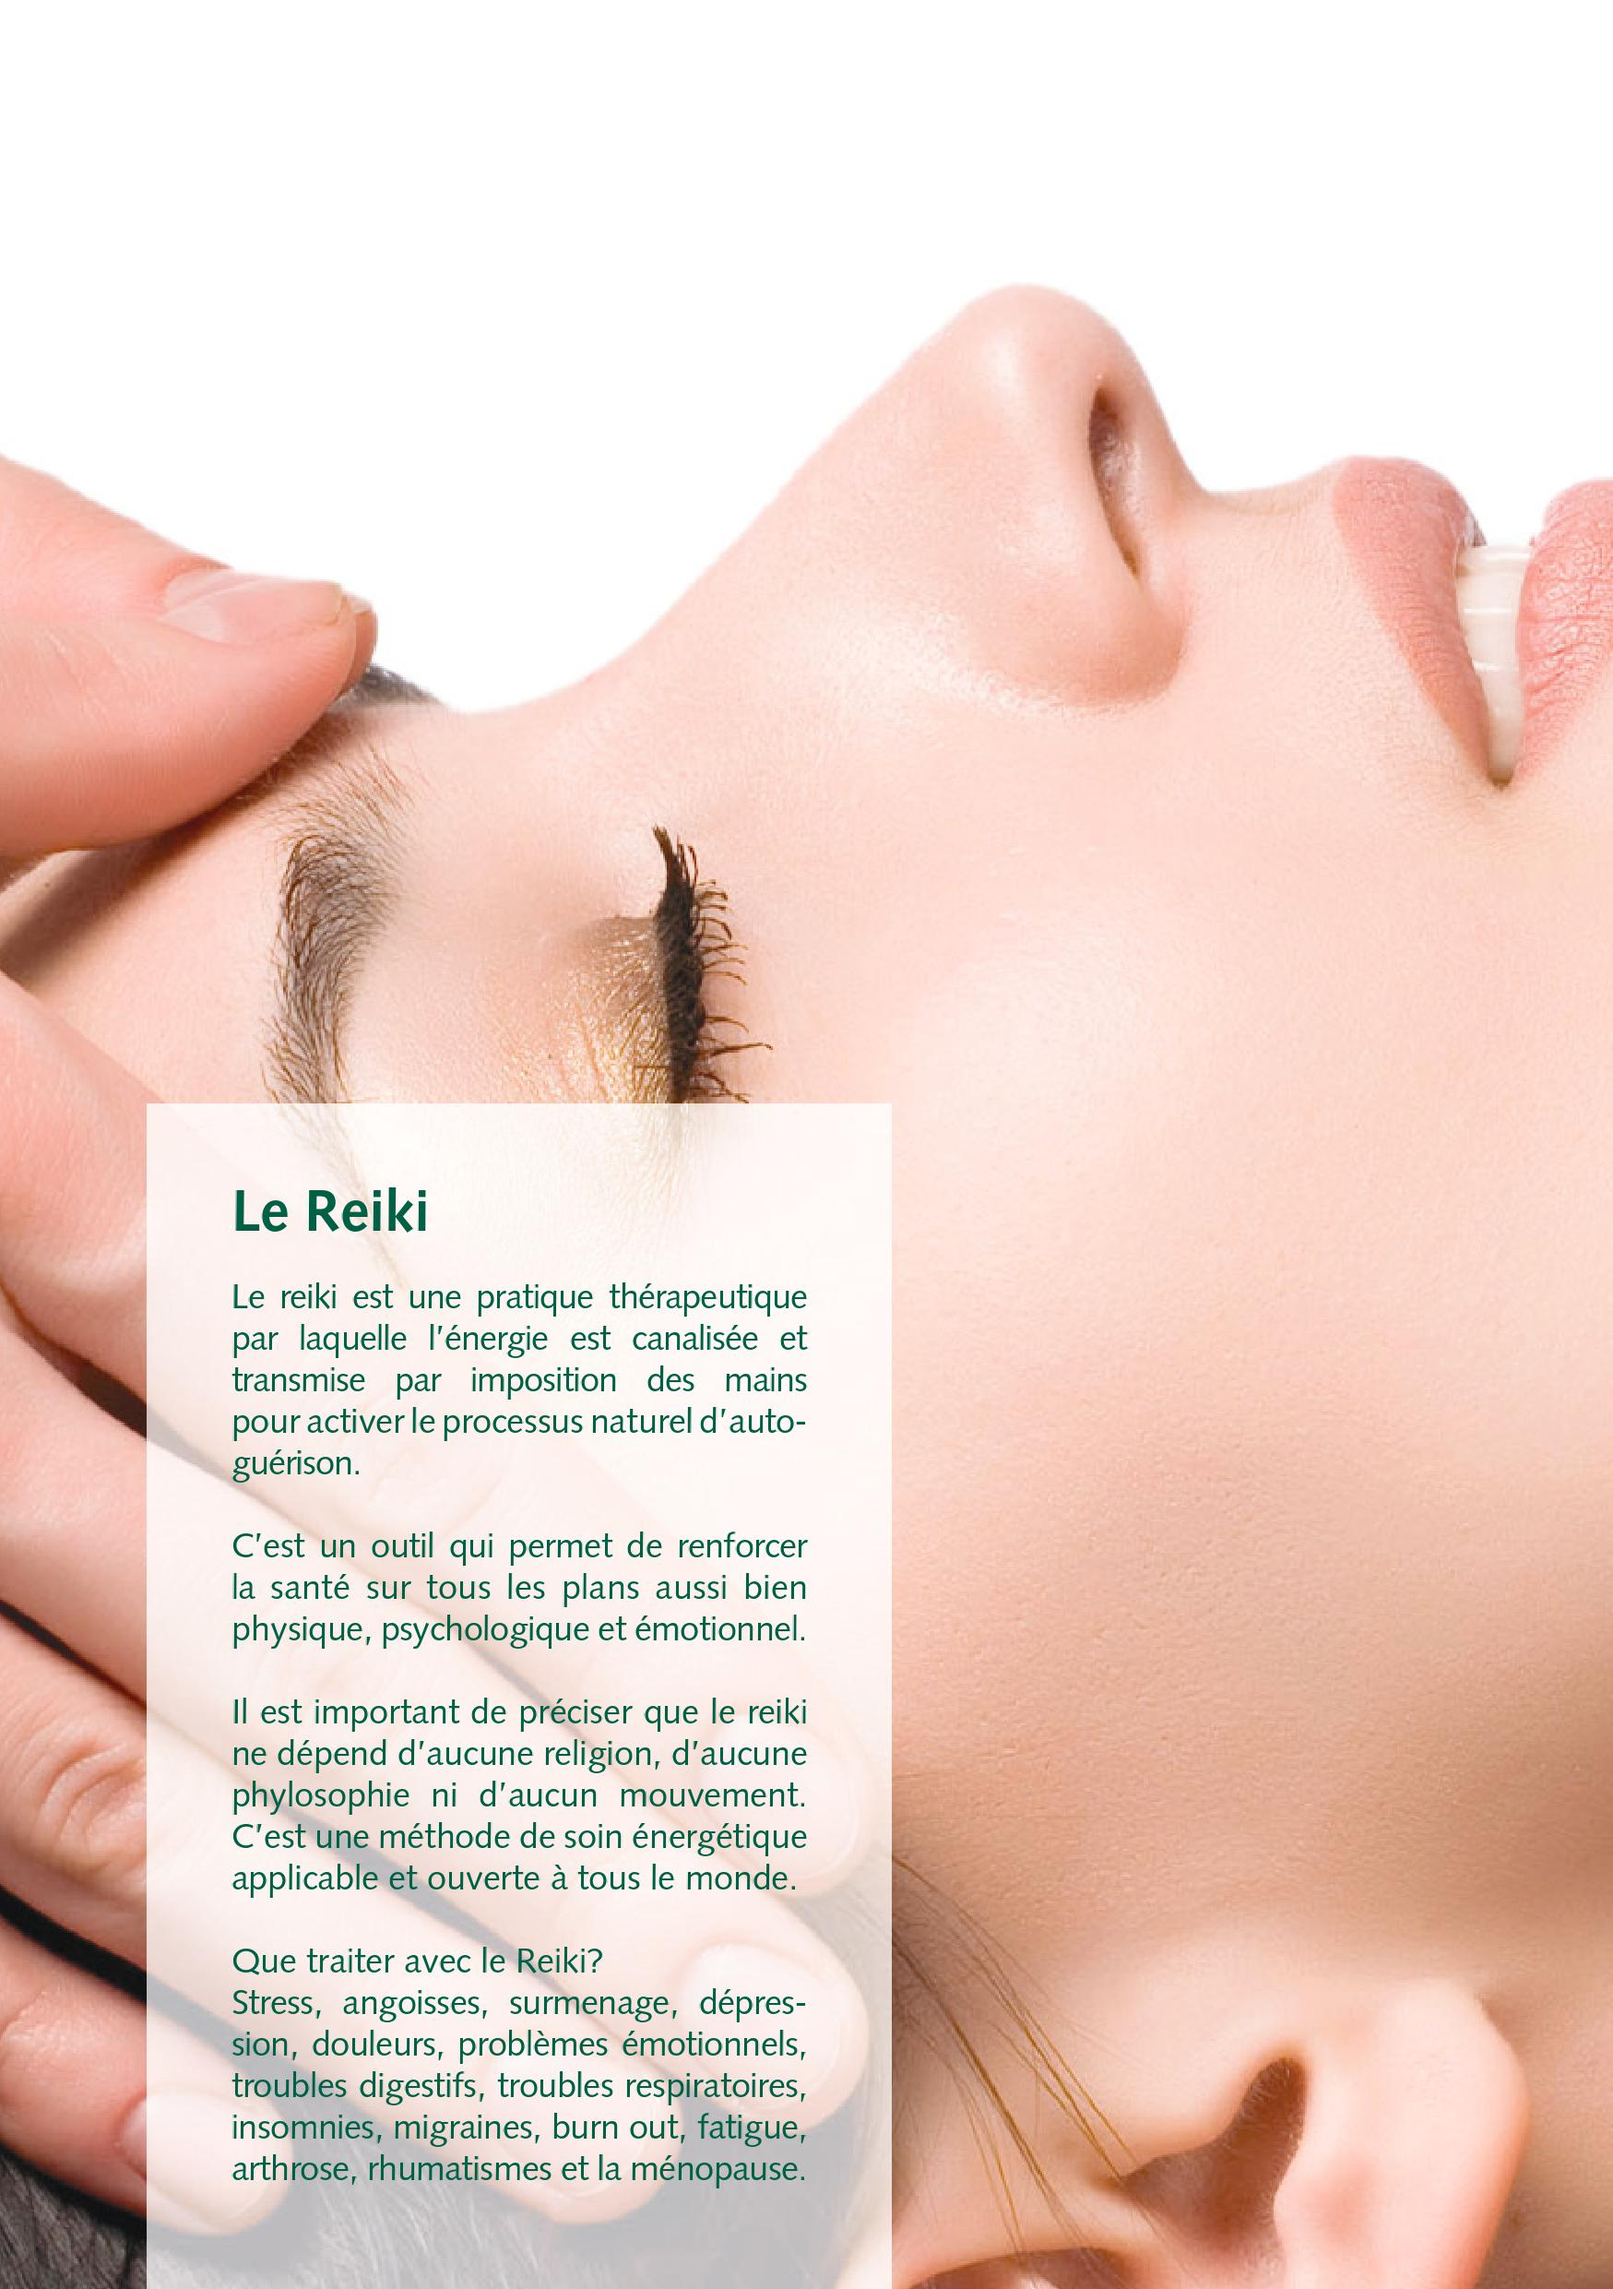
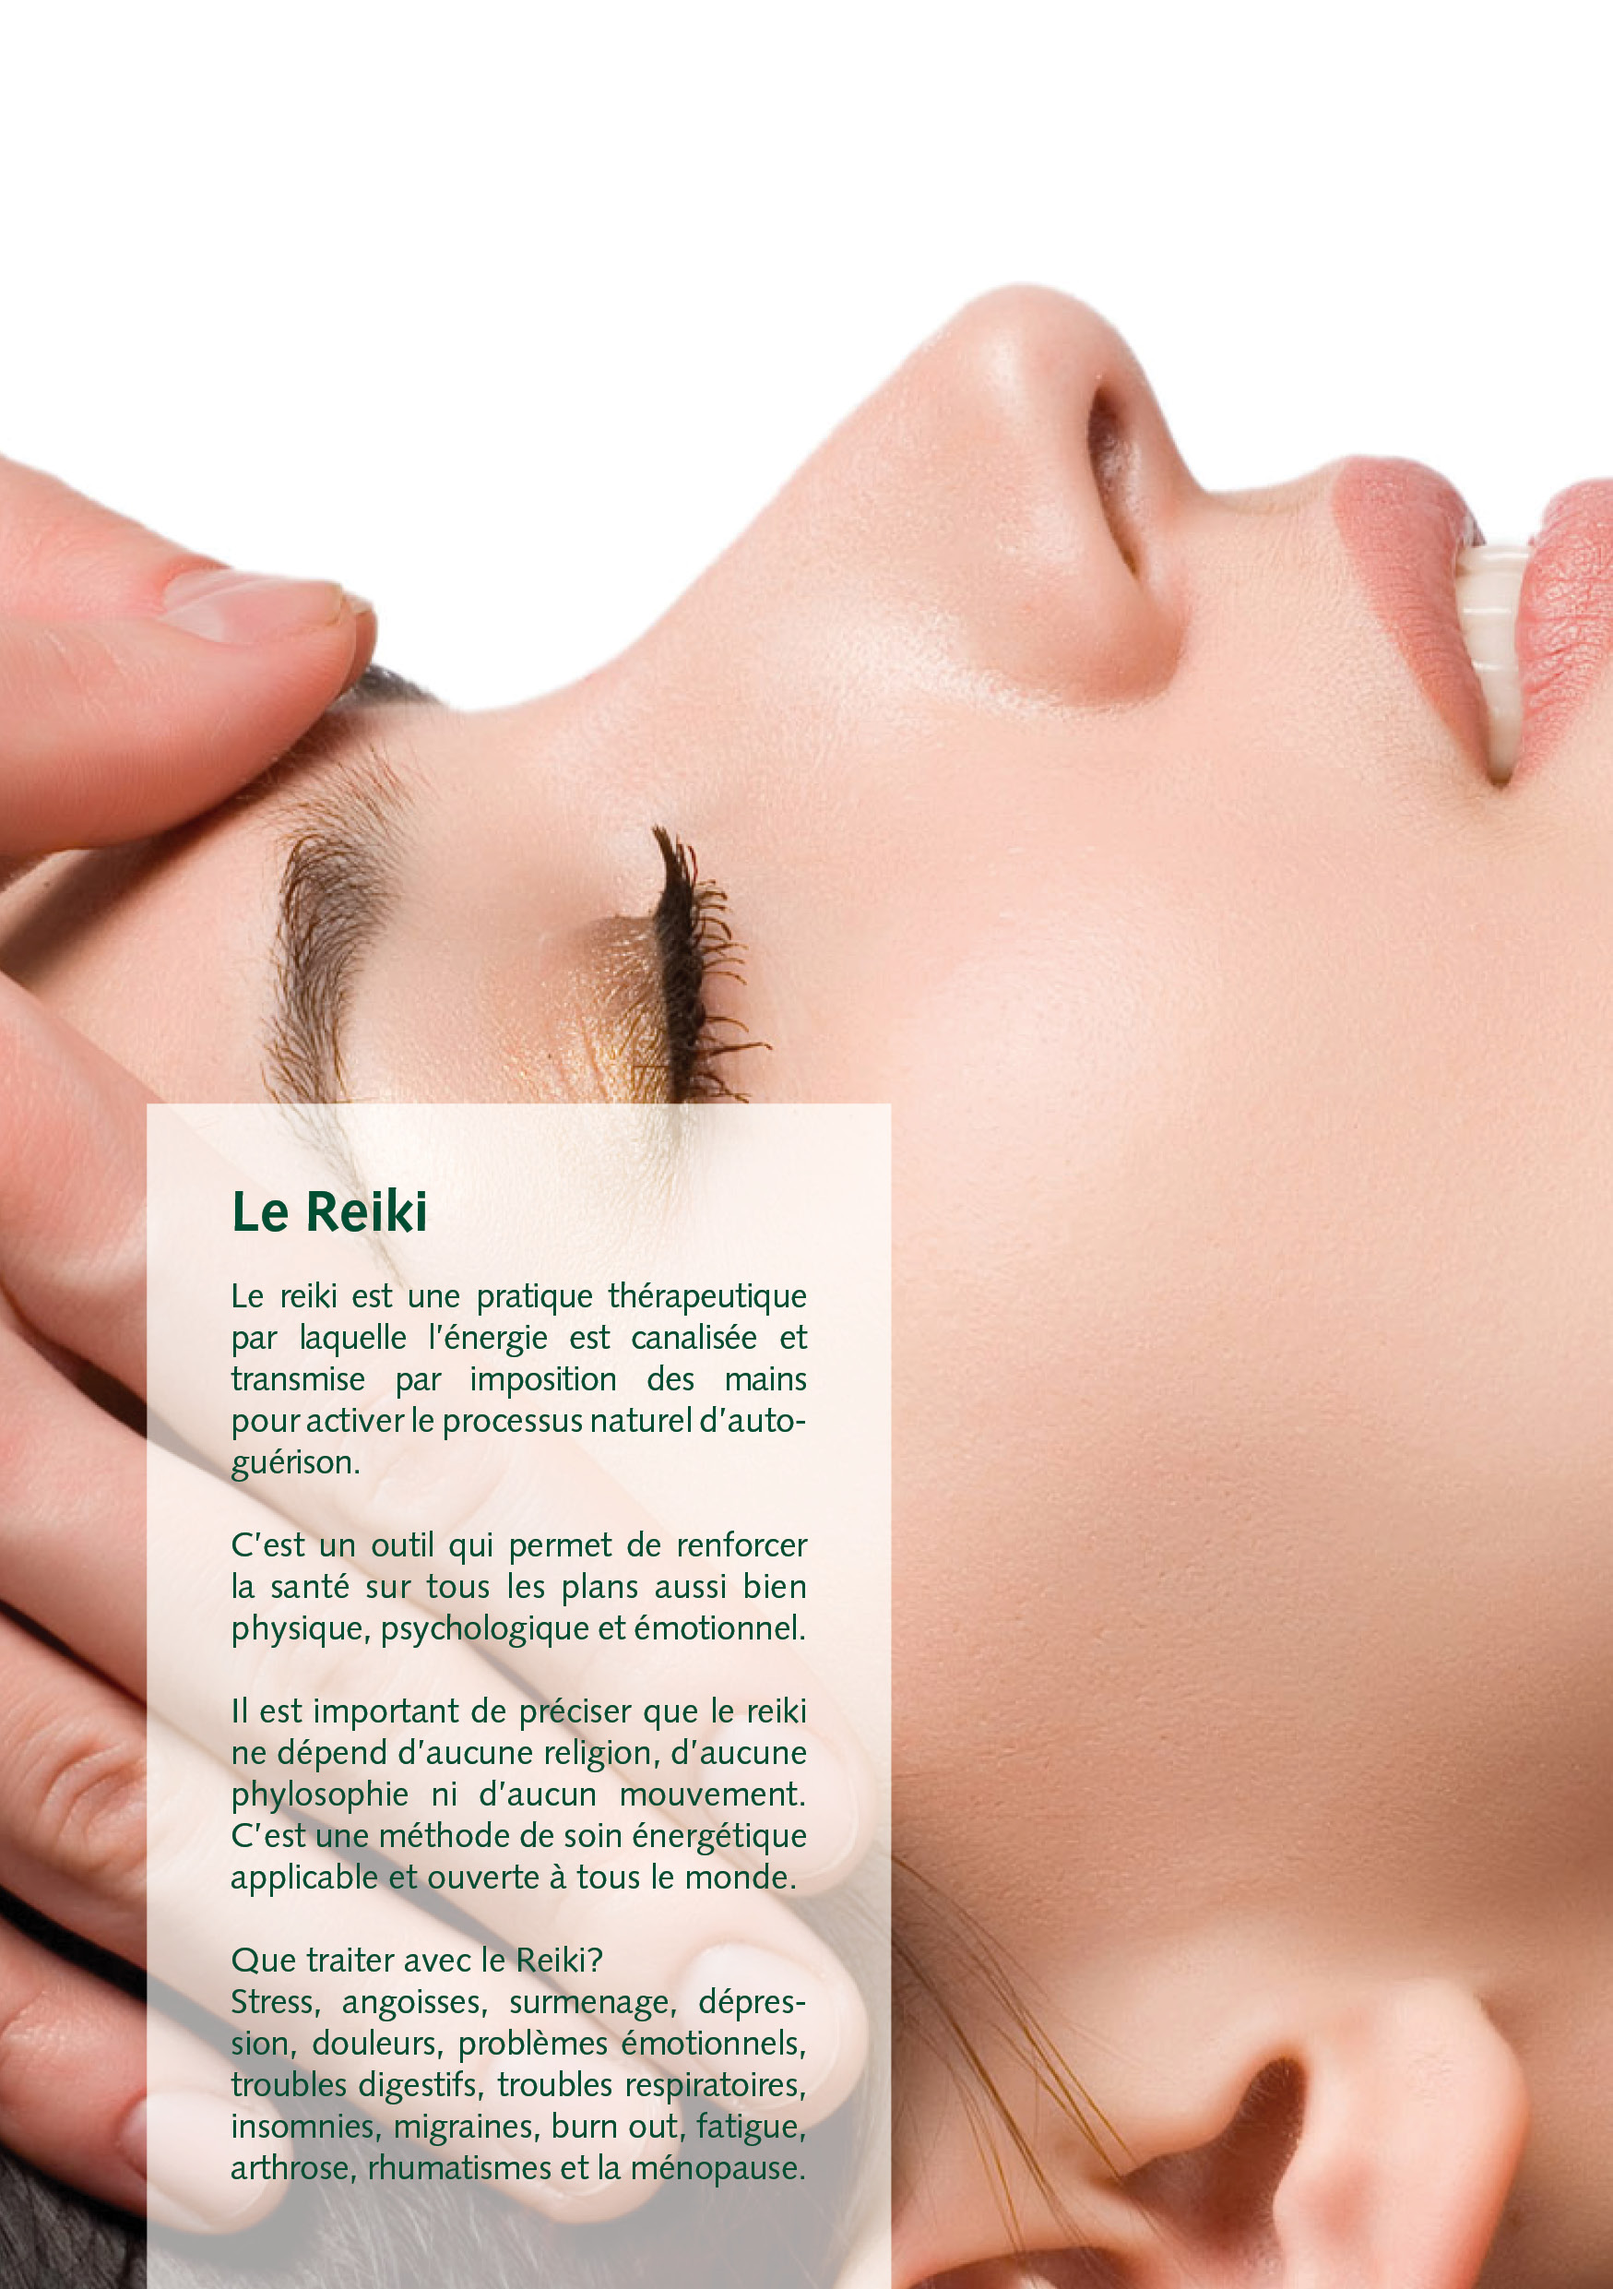
chore(image): update style and images

Changed region(s): [[0.0, 0.2483, 1.0, 1.0], [0.6175, 0.1552, 1.0, 0.3724], [0.0926, 0.2173, 0.1235, 0.2793]]

diff --git a/css/magazine.css b/css/magazine.css
@@ -10,20 +10,20 @@ body{
 	top:50%;
 	left:50%;
 	width:1034px; /*922px;*/
-	height:660px; /*600px;*/
+	height:729px; /*600px;*/
 	margin:auto;
 }
 
 .magazine-viewport .magazine{
 	width:1034px; /*922px;*/
-	height:660px; /*600px;*/
+	height:729px; /*600px;*/
 	left:-461px;
 	top:-300px;
 }
 
 .magazine-viewport .page{
 	width:461px;
-	height:660px; /*600px;*/
+	height:729px; /*600px;*/
 	background-color:white;
 	background-repeat:no-repeat;
 	background-size:100% 100%;
@@ -146,7 +146,7 @@ body{
 .magazine-viewport .next-button,
 .magazine-viewport .previous-button{
 	width:22px;
-	height:660px; /*600px;*/
+	height:729px; /*600px;*/
 	position:absolute;
 	top:0;
 }

diff --git a/index.html b/index.html
@@ -99,7 +99,7 @@ function loadApp() {
 
 			// Magazine height
 
-			height: 660, //600,
+			height: 729, //600,
 
 			// Duration in millisecond
 
